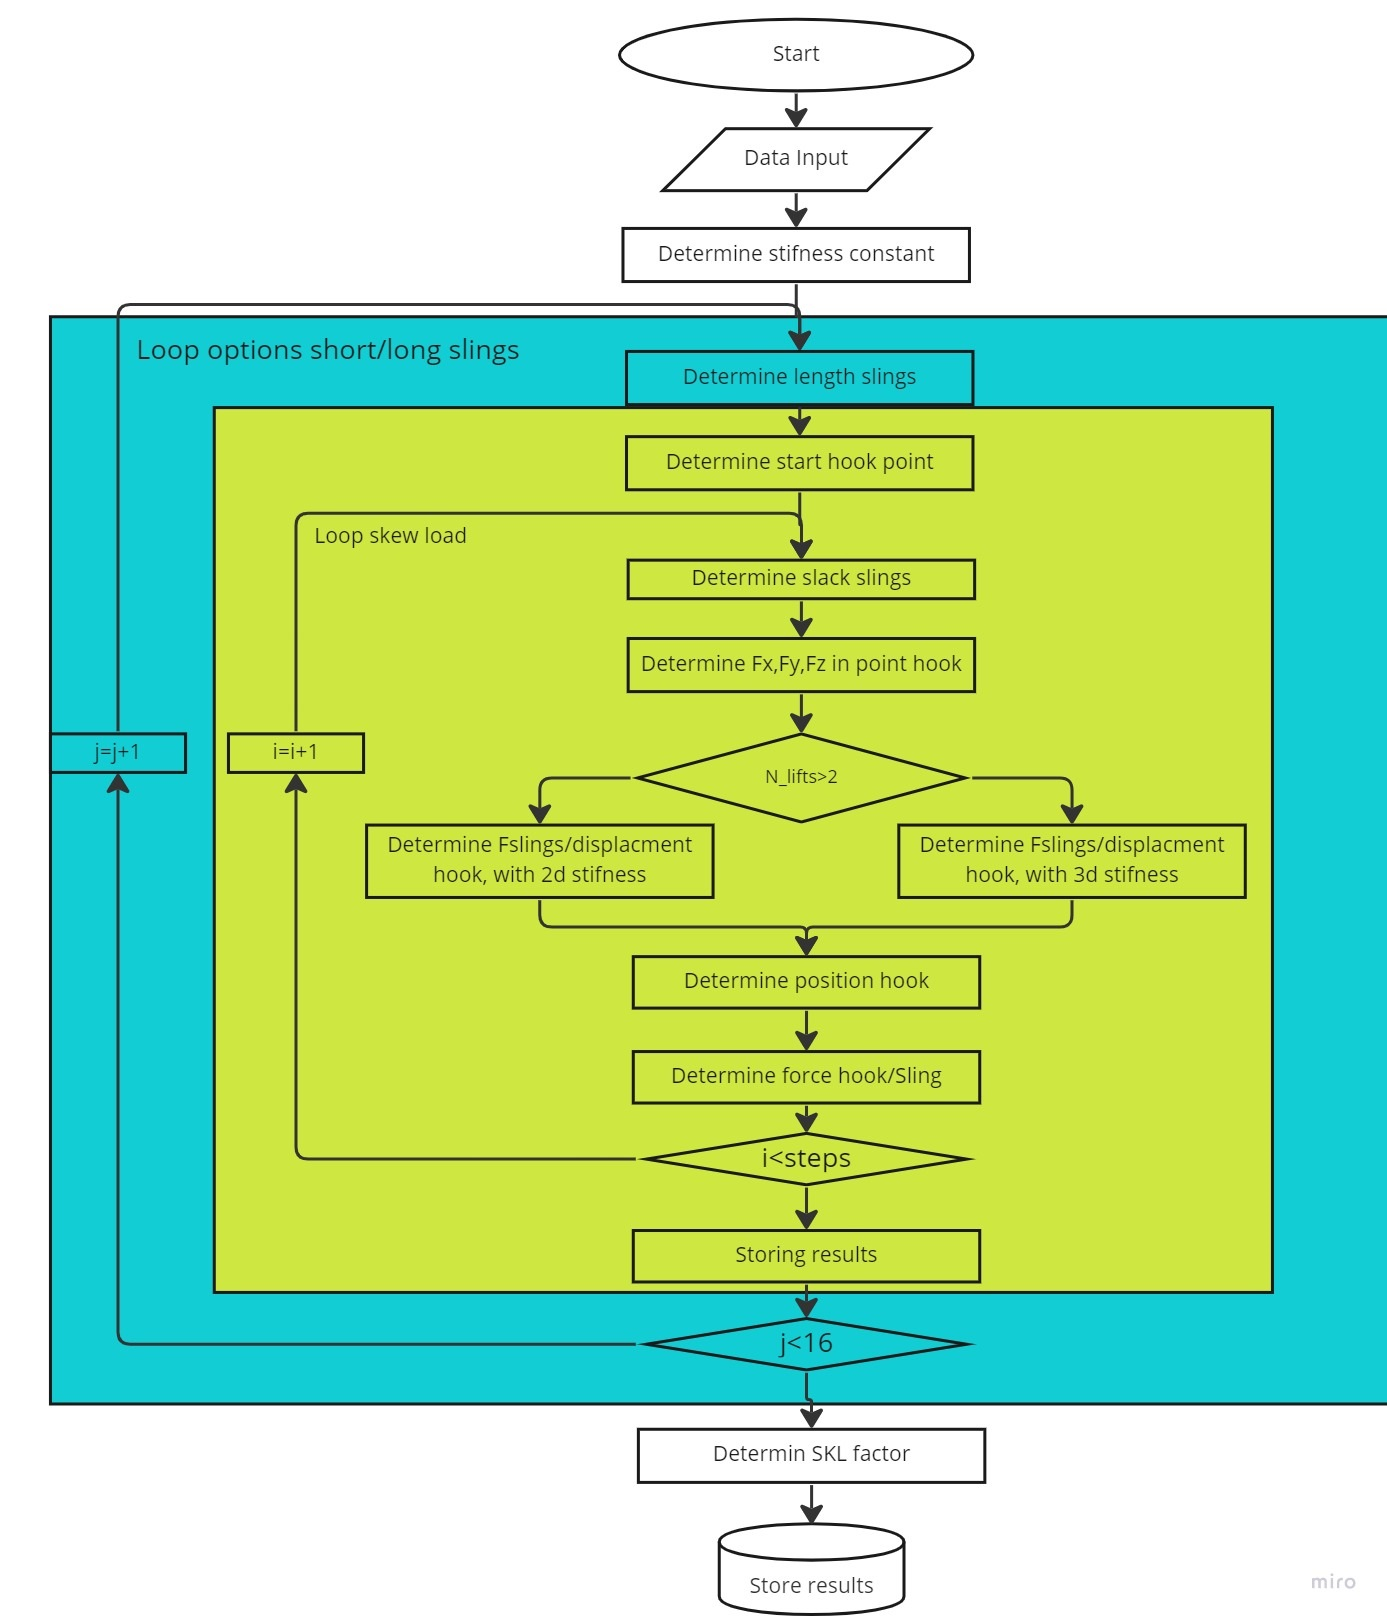
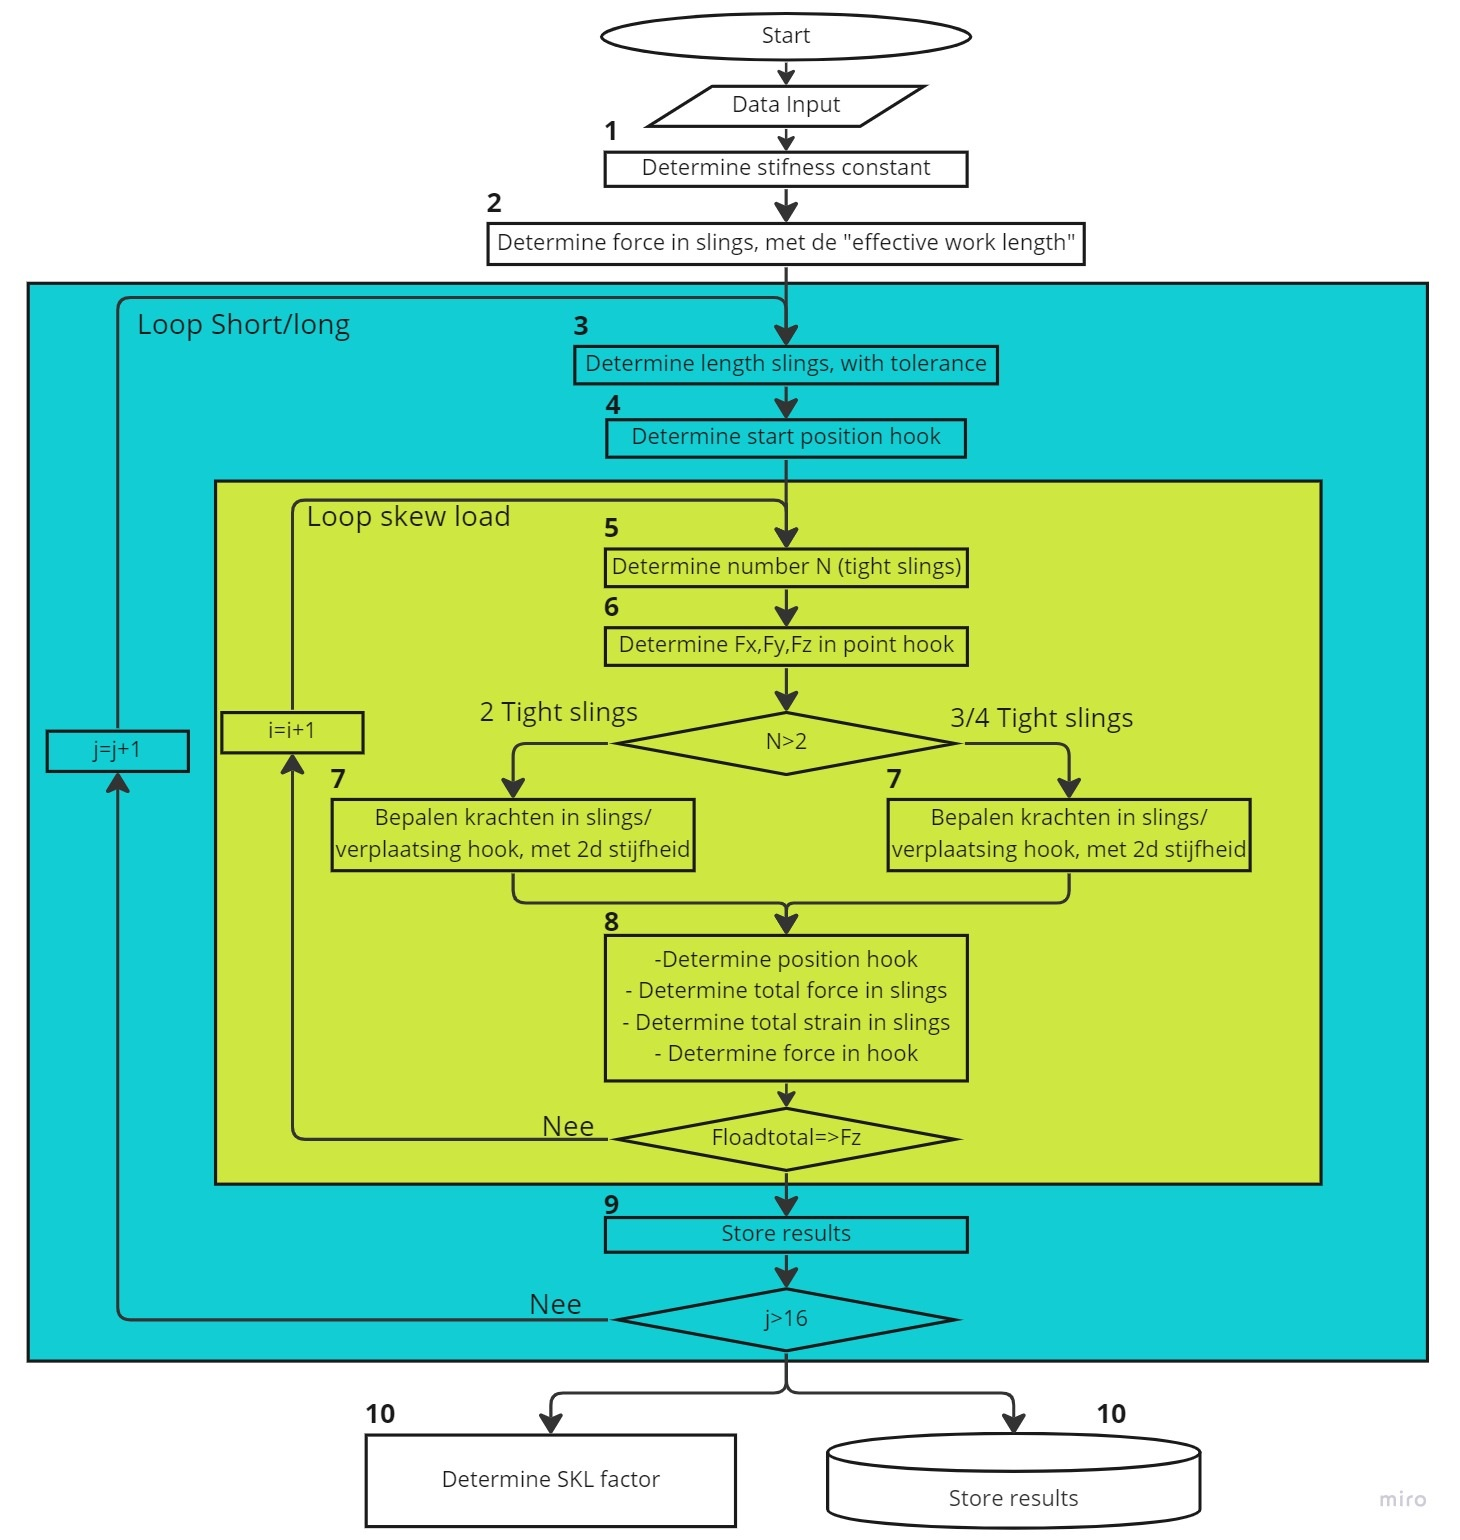
Changed skew laod factor

diff --git a/README.md b/README.md
@@ -252,24 +252,40 @@ Data_skl={"Lift_points": [nx[float(point_x),float(point_y),float(point_z)]],
 ### Flowchart 
 ![This is a image](/Files_read_me/Flowchart_skl.jpg)
 
-1. Determine the stiffness constant of the slings 
-2. Determine the length of the slings: 
-    The length of the slings depends on the in-use length of the slings, and if the slings are longer than the measured length because of the tolerance or are shorter than the measured length. In total there are 16 different combinations possible for the slings length, and the code loops through all of them.
-3. Determine the start hook point, because of the different lengths of the slings, the start of the hook point is different from the original. See the next chapter for a detailed explanation of the start of the hook point.
-4. Determine the number of slack slings, this is based on the distance between the lift points and the length of the slings with tolerance. 
-5. Determine Fx, Fy, and Fz forces in hook, Fx and Fy are equal to zero. The Fz force depends on which iteration the "Loop skew load is"
-6. When there are 2 slings tight, this means that the hook is on the diagonal line of those two points. So the forces in the slings/ displacement of the hook can be determined using the 2d stiffness method. When there are 3/4 slings tight, the force in the slings/ displacement of the hook can be solved using the 3d stiffness method.
-7. Determine the new position, based on the displacement of the hook that was calculated in the last step
-8. Determine the total force in slings/ hook, based on the force in slings that was calculated in the last step
-9. Checking if "Loop skew" has done all its steps, if this is the case the total force in the z-direction is equal to the total force of the lifting object. If it is not the case, steps 3,4,5,6,7, and 8 are done again, unit all steps have been completed.
-10. Store all the results in a dictionary
-11. Checking if "Loop options short/long slings" had done all its 16 different combinations, if this is not the case steps 3 t/m 10 will be done again.
+
+1. Determine the stiffness constant of the slings <br/>
+    The sitfness method is determined bases on the E-modulus, Core diameter and the effective work length
+2. Determine force in slings, with the effective work length <br/>
+    Determine the force in the slings, with the effective work length. It is determine used using step 4,5,6,7,8 and 9. It is possible that some cables are pulled sooner than other, due to the different effective work length. 
+    
+3. Determine length slings, with tolerance <br/>
+    Calculate the length of the slings based on the tolerance it is possible that the lenght of the sling is equal to 100,25% of the EWL or 99,75% of the EWL, in total there are 16 different options, that the code loop througs all.
+
+3. Determine the start hook point<br/>
+     Because of the different lengths of the slings, the start of the hook point is different from the original. See the next chapter for a detailed explanation of the start of the hook point.
+4. Determine the number of slack slings<br/> 
+    This is based on the distance between the lift points and the length of the slings with strain. 
+5. Determine Fx, Fy, and Fz forces in hook<br/>
+    Fx and Fy are equal to zero. The Fz force depends on which iteration the "Loop skew load is"
+7. Checking if there are more than 2 slings tight:
+    1. When there are 2 slings tight, this means that the hook is on the diagonal line of those two points. So the forces in the slings/ displacement of the hook can be determined using the 2d stiffness method.
+    2. When there are 3/4 slings tight, the force in the slings/ displacement of the hook can be solved using the 3d stiffness method.
+8. Results 2d/3d stifnes method
+    1. Determine the new position of the hook, bases on the displacment of the hook and the position of the hook in the last iteration 
+    2. Determine total force in slings
+    3. Determine total strain in slings 
+    4. Determine total force in hook, bases on the forces in slings and the angles of the slings
+9. Checking if the total load is greater than the the force in z-direction, if this not the case steps 5,6,7 and 8 are done again, until the total force in z-direction is equal to the force of the lifted object. When the force is greater or equal the results are stored in a dictionary.
+
+10. Checking if "Loop options short/long slings" had done all its 16 different combinations, if this is not the case steps 3 t/m 9 will be done again.
 12. Determine the max skew load factor of each sling. Also, determine what the displacement of the hook/force in slings was with the max skew load factor and store these in a CSV file
 
 The calculatinos to determine what the force in the slings are and the displacment of the hook are described in more detail in: Matrix Analysis of structure, second edition
+
+
 ### Determine start hook point 
 Because of the different lengths, the start of the hook point is different than the original hook point.  See below the flowchart, there has been an assumption made that the slings can not have any strain( no forces), when the forces in the hook are not equal to zero. This is the case when there is one rope tight, and the rope is not directly under the hook. The second case is when there are two tight and the hook lays not on the diagonal of the two liftings points.
-![This is a image](/Files_read_me/Flowchart_start_hook_point.jpg)
+![This is a image](/Files_read_me/Flowchart_sling_strak.jpg)
 
 1. Determine the z-positon of the hook, this point is the first point when a cable is tight, it is determined with the following code, see code snippet below: 
 ```
